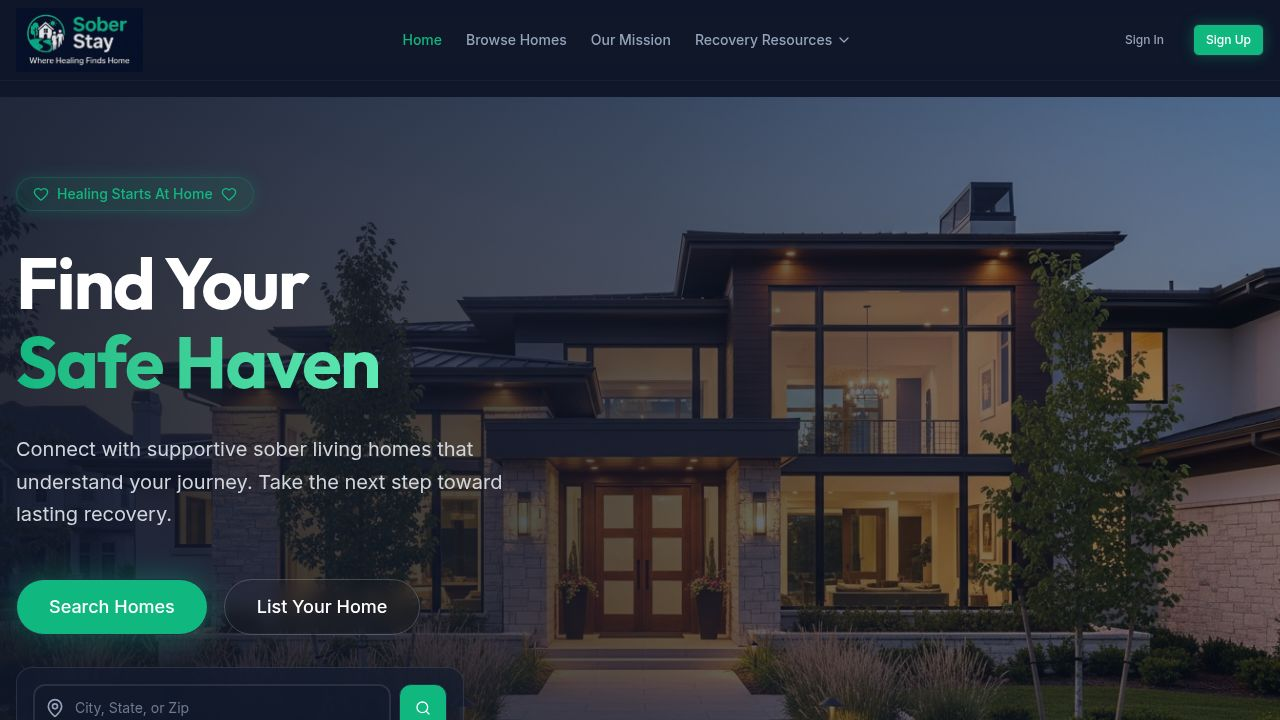
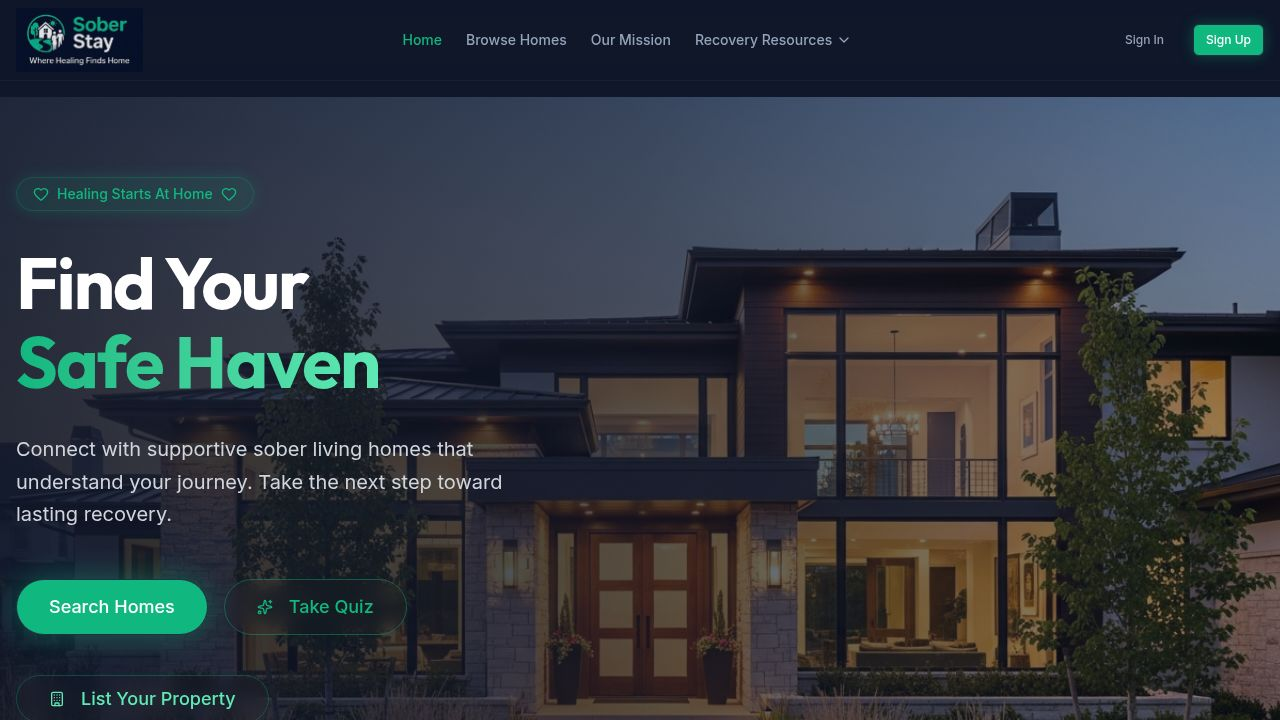
Add "List Your Property" button and zip code search to quiz
Add a "List Your Property" button to the home page and enhance the quiz to include zip code search functionality in the location selection step.

Replit-Commit-Author: Agent
Replit-Commit-Session-Id: 7bf800bc-79cc-447a-8a38-997c5e8df2cc
Replit-Commit-Checkpoint-Type: full_checkpoint
Replit-Commit-Event-Id: fe69a4b2-cf24-45f2-8c2e-576c332d13d9
Replit-Commit-Screenshot-Url: https://storage.googleapis.com/screenshot-production-us-central1/81e67262-816b-4fb6-81d9-b08eca5409c7/7bf800bc-79cc-447a-8a38-997c5e8df2cc/wOKvdsC

Changed region(s): [[0.0312, 0.2444, 1.0, 1.0], [0.0312, 0.4889, 0.25, 0.6722], [0.25, 0.6722, 0.2812, 0.7028]]

diff --git a/client/src/pages/quiz.tsx b/client/src/pages/quiz.tsx
@@ -4,6 +4,7 @@ import { Button } from "@/components/ui/button";
 import { Badge } from "@/components/ui/badge";
 import { Progress } from "@/components/ui/progress";
 import { Slider } from "@/components/ui/slider";
+import { Input } from "@/components/ui/input";
 import { 
   ArrowLeft, ArrowRight, Home, MapPin, DollarSign, Users, 
   Heart, Shield, Sparkles, CheckCircle, Star
@@ -234,24 +235,52 @@ export default function Quiz() {
             <div className="text-center space-y-2">
               <MapPin className="w-12 h-12 mx-auto text-primary" />
               <h2 className="text-2xl font-bold text-white">Where are you looking to live?</h2>
-              <p className="text-muted-foreground">Select your preferred area</p>
+              <p className="text-muted-foreground">Select your preferred area or search by zip code</p>
             </div>
-            <div className="grid grid-cols-2 gap-4 max-w-xl mx-auto">
-              {LOCATIONS.map((loc) => (
-                <button
-                  key={loc.value}
-                  onClick={() => setAnswers({ ...answers, location: loc.value })}
-                  className={`p-4 rounded-xl border-2 transition-all ${
-                    answers.location === loc.value
-                      ? "border-primary bg-primary/10"
-                      : "border-border hover:border-primary/50 bg-white/5"
-                  }`}
-                  data-testid={`button-location-${loc.value}`}
-                >
-                  <MapPin className={`w-5 h-5 mx-auto mb-2 ${answers.location === loc.value ? "text-primary" : "text-muted-foreground"}`} />
-                  <p className="font-medium text-white">{loc.label}</p>
-                </button>
-              ))}
+            
+            {/* Zip Code Search */}
+            <div className="max-w-xl mx-auto space-y-4">
+              <div className="relative">
+                <MapPin className="absolute left-3 top-1/2 -translate-y-1/2 w-5 h-5 text-muted-foreground" />
+                <Input 
+                  placeholder="Search by zip code..." 
+                  value={answers.location.match(/^\d+$/) ? answers.location : ""}
+                  onChange={(e) => {
+                    const zipCode = e.target.value.replace(/\D/g, '');
+                    if (zipCode.length <= 5) {
+                      setAnswers({ ...answers, location: zipCode });
+                    }
+                  }}
+                  className="pl-10 h-12 bg-background/50 border-white/10 focus:border-primary/50 focus:ring-primary/20 rounded-xl"
+                  data-testid="input-zipcode"
+                  maxLength={5}
+                />
+              </div>
+              <p className="text-xs text-muted-foreground text-center">
+                {answers.location.match(/^\d+$/) ? `Searching for homes in zip code: ${answers.location}` : "Enter a 5-digit zip code"}
+              </p>
+            </div>
+
+            {/* Predefined Locations */}
+            <div className="space-y-3 max-w-xl mx-auto">
+              <p className="text-sm text-muted-foreground text-center">Or select from popular areas</p>
+              <div className="grid grid-cols-2 gap-4">
+                {LOCATIONS.map((loc) => (
+                  <button
+                    key={loc.value}
+                    onClick={() => setAnswers({ ...answers, location: loc.value })}
+                    className={`p-4 rounded-xl border-2 transition-all ${
+                      answers.location === loc.value
+                        ? "border-primary bg-primary/10"
+                        : "border-border hover:border-primary/50 bg-white/5"
+                    }`}
+                    data-testid={`button-location-${loc.value}`}
+                  >
+                    <MapPin className={`w-5 h-5 mx-auto mb-2 ${answers.location === loc.value ? "text-primary" : "text-muted-foreground"}`} />
+                    <p className="font-medium text-white text-sm">{loc.label}</p>
+                  </button>
+                ))}
+              </div>
             </div>
           </div>
         );

diff --git a/client/src/pages/home.tsx b/client/src/pages/home.tsx
@@ -67,6 +67,14 @@ export default function Home() {
               </Link>
             </div>
 
+            <div className="pt-2">
+              <Link href="/provider-listing">
+                <Button size="lg" variant="ghost" className="text-lg h-12 px-8 rounded-full text-emerald-300 hover:bg-emerald-500/10 hover:text-emerald-200 border border-emerald-500/30 hover:border-emerald-500/60 backdrop-blur-sm" data-testid="button-list-property">
+                  <Building className="w-5 h-5 mr-2" /> List Your Property
+                </Button>
+              </Link>
+            </div>
+
             {/* Search Bar Widget */}
             <div className="mt-8 p-4 bg-card/60 backdrop-blur-xl border border-white/10 rounded-2xl shadow-2xl max-w-md hover:border-primary/30 transition-colors">
               <div className="flex gap-2">
